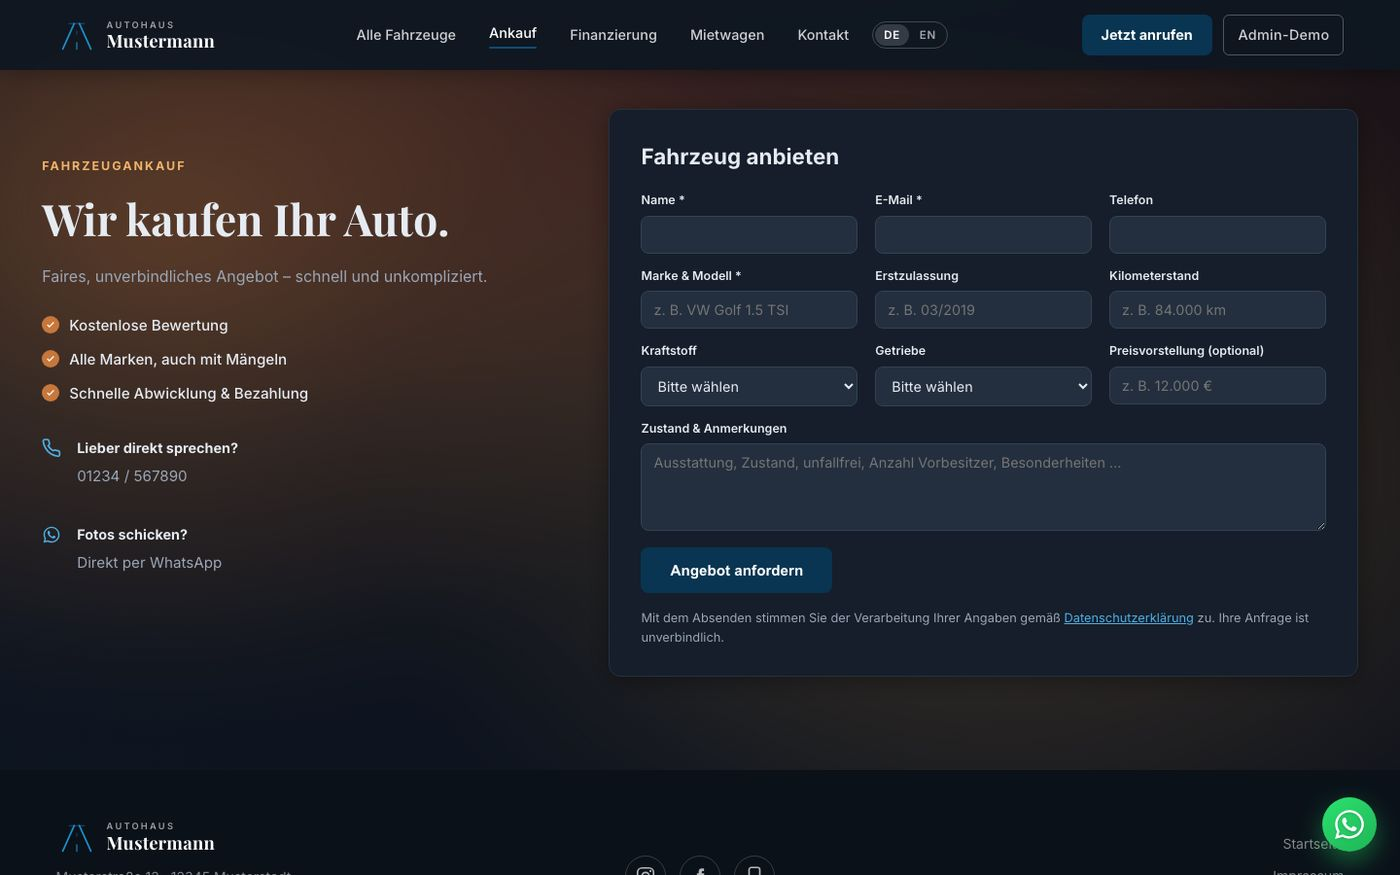
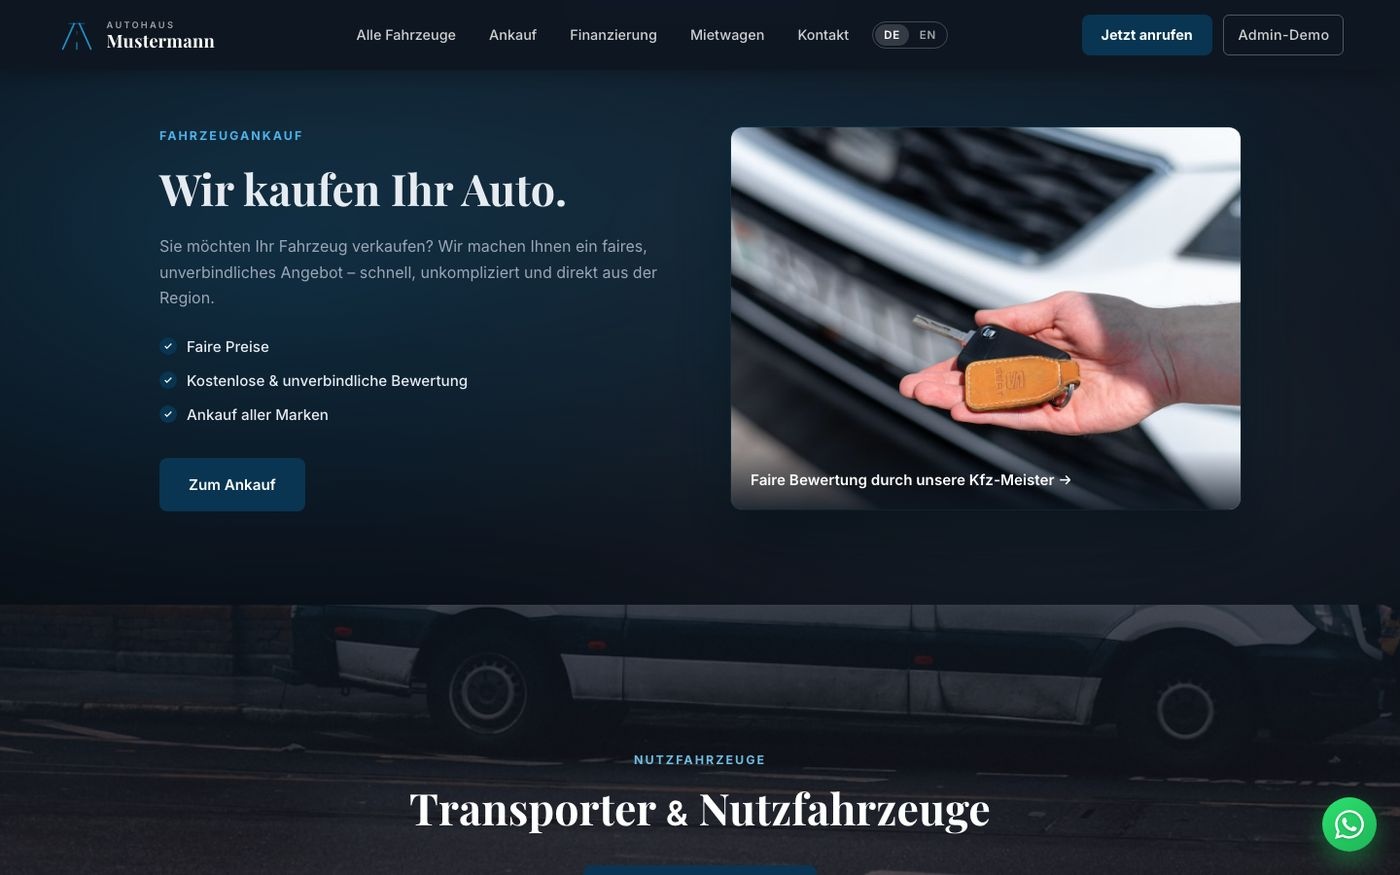
feat(website): Slider – neue Startseite/Ankauf-Bilder, Pfeile auf den Bildern, mehr GEO-Beispiele
- Startseite und Ankauf neu aus der Autohaus-Demo, Instagram-Profil entfernt
- schlichte Pfeile links/rechts auf den Screenshots
- GEO spielt fuenf KI-Antworten aus verschiedenen Branchen nacheinander ab

diff --git a/src/lib/texte.ts b/src/lib/texte.ts
@@ -33,7 +33,7 @@ const DE = {
         titel: "Gute Idee heute. Online morgen.",
         text: "KI ersetzt keine Idee – sie macht die Umsetzung schnell. Beispiel Instagram: Foto wählen, Text kommt von der KI, Beitrag einplanen. Fertig.",
         punkte: ["Instagram-Beiträge in Minuten", "Änderungen an der Website in Tagen", "Texte und Bilder in Ihrem Ton"],
-        ansichten: ["Content erstellen", "Content planen", "Instagram-Profil", "Website ändern"],
+        ansichten: ["Content erstellen", "Content planen", "Website ändern"],
       },
     ],
   },
@@ -43,10 +43,38 @@ const DE = {
     text: "Kunden fragen heute eine KI. Genannt wird, wer klare Fakten liefert – dafür richte ich Website und Google-Profil ein.",
     punkte: ["Strukturierte Daten", "Fragen & Antworten", "Google-Unternehmensprofil"],
     kopf: "KI-Antwort",
-    frage: "Welche Werkstatt in Würzburg macht samstags Reifenwechsel?",
-    antwortName: "Autohaus Mustermann",
-    antwort: " in Würzburg bietet samstags von 9 bis 13 Uhr Reifenwechsel an, Termine lassen sich online buchen. Kunden bewerten den Betrieb mit 4,8 von 5 Sternen.",
-    quellen: ["autohaus-mustermann.de", "Google Unternehmensprofil", "Bewertungen · 4,8 ★"],
+    beispiele: [
+      {
+        frage: "Welche Werkstatt in Würzburg macht samstags Reifenwechsel?",
+        name: "Autohaus Mustermann",
+        antwort: " in Würzburg bietet samstags von 9 bis 13 Uhr Reifenwechsel an, Termine lassen sich online buchen.",
+        quellen: ["autohaus-mustermann.de", "Google Unternehmensprofil", "Bewertungen · 4,8 ★"],
+      },
+      {
+        frage: "Wo kann ich in Würzburg sonntags gemütlich frühstücken?",
+        name: "Café Mustermann",
+        antwort: " in der Innenstadt serviert sonntags bis 14 Uhr Frühstück, Tische lassen sich online reservieren.",
+        quellen: ["cafe-mustermann.de", "Speisekarte", "Bewertungen · 4,7 ★"],
+      },
+      {
+        frage: "Wer plant in Würzburg einen Anbau ans Einfamilienhaus?",
+        name: "Planungsbüro Mustermann",
+        antwort: " plant An- und Umbauten von der ersten Skizze bis zum Bauantrag. Ein Erstgespräch lässt sich direkt anfragen.",
+        quellen: ["planungsbuero-mustermann.de", "Referenzprojekte", "Google Unternehmensprofil"],
+      },
+      {
+        frage: "Wo miete ich in Würzburg kurzfristig einen Transporter?",
+        name: "Autohaus Mustermann",
+        antwort: " vermietet Transporter ab 59 € am Tag. Freie Tage sind online sichtbar und direkt buchbar.",
+        quellen: ["autohaus-mustermann.de/mietwagen", "Belegungsplan", "Bewertungen · 4,8 ★"],
+      },
+      {
+        frage: "Welcher Friseur in Würzburg hat heute noch einen Termin frei?",
+        name: "Salon Mustermann",
+        antwort: " am Marktplatz hat heute ab 16 Uhr noch Termine frei – gebucht wird online in einer Minute.",
+        quellen: ["salon-mustermann.de", "Online-Terminbuchung", "Bewertungen · 4,9 ★"],
+      },
+    ],
     aria: "Beispiel: KI-Antwort, die den Betrieb empfiehlt",
   },
   ueber: {
@@ -136,7 +164,7 @@ const EN: Texte = {
         titel: "Good idea today. Online tomorrow.",
         text: "AI doesn't replace an idea – it makes execution fast. Take Instagram: pick a photo, the AI writes the text, schedule the post. Done.",
         punkte: ["Instagram posts in minutes", "Website changes in days", "Text and images in your tone"],
-        ansichten: ["Create content", "Schedule content", "Instagram profile", "Edit website"],
+        ansichten: ["Create content", "Schedule content", "Edit website"],
       },
     ],
   },
@@ -146,10 +174,38 @@ const EN: Texte = {
     text: "Customers ask an AI these days. It names whoever provides clear facts – that's what I set up your website and Google profile for.",
     punkte: ["Structured data", "Questions & answers", "Google Business Profile"],
     kopf: "AI answer",
-    frage: "Which garage in Würzburg changes tyres on Saturdays?",
-    antwortName: "Autohaus Mustermann",
-    antwort: " in Würzburg changes tyres on Saturdays from 9 am to 1 pm, and appointments can be booked online. Customers rate the business 4.8 out of 5 stars.",
-    quellen: ["autohaus-mustermann.de", "Google Business Profile", "Reviews · 4.8 ★"],
+    beispiele: [
+      {
+        frage: "Which garage in Würzburg changes tyres on Saturdays?",
+        name: "Autohaus Mustermann",
+        antwort: " in Würzburg changes tyres on Saturdays from 9 am to 1 pm, and appointments can be booked online.",
+        quellen: ["autohaus-mustermann.de", "Google Business Profile", "Reviews · 4.8 ★"],
+      },
+      {
+        frage: "Where can I have a relaxed Sunday breakfast in Würzburg?",
+        name: "Café Mustermann",
+        antwort: " in the city centre serves breakfast on Sundays until 2 pm, and tables can be reserved online.",
+        quellen: ["cafe-mustermann.de", "Menu", "Reviews · 4.7 ★"],
+      },
+      {
+        frage: "Who can plan an extension to my house in Würzburg?",
+        name: "Planungsbüro Mustermann",
+        antwort: " plans extensions and conversions from the first sketch to the building application. A first meeting can be requested directly.",
+        quellen: ["planungsbuero-mustermann.de", "Reference projects", "Google Business Profile"],
+      },
+      {
+        frage: "Where can I rent a van at short notice in Würzburg?",
+        name: "Autohaus Mustermann",
+        antwort: " rents out vans from €59 a day. Free days are shown online and can be booked directly.",
+        quellen: ["autohaus-mustermann.de/mietwagen", "Booking calendar", "Reviews · 4.8 ★"],
+      },
+      {
+        frage: "Which hairdresser in Würzburg still has a slot today?",
+        name: "Salon Mustermann",
+        antwort: " on the market square has free slots today from 4 pm – booked online in a minute.",
+        quellen: ["salon-mustermann.de", "Online booking", "Reviews · 4.9 ★"],
+      },
+    ],
     aria: "Example: an AI answer recommending the business",
   },
   ueber: {
@@ -237,7 +293,7 @@ const ES: Texte = {
         titel: "Buena idea hoy. En línea mañana.",
         text: "La IA no sustituye una idea – hace que la ejecución sea rápida. Ejemplo Instagram: elegir foto, la IA escribe el texto, programar la publicación. Listo.",
         punkte: ["Publicaciones de Instagram en minutos", "Cambios en la web en días", "Textos e imágenes con su tono"],
-        ansichten: ["Crear contenido", "Planificar contenido", "Perfil de Instagram", "Editar web"],
+        ansichten: ["Crear contenido", "Planificar contenido", "Editar web"],
       },
     ],
   },
@@ -247,10 +303,38 @@ const ES: Texte = {
     text: "Hoy los clientes preguntan a una IA. Se menciona a quien ofrece datos claros – para eso preparo su web y su perfil de Google.",
     punkte: ["Datos estructurados", "Preguntas y respuestas", "Perfil de empresa de Google"],
     kopf: "Respuesta de la IA",
-    frage: "¿Qué taller de Würzburg cambia neumáticos los sábados?",
-    antwortName: "Autohaus Mustermann",
-    antwort: " en Würzburg cambia neumáticos los sábados de 9 a 13 h y las citas se pueden reservar en línea. Los clientes valoran el negocio con 4,8 de 5 estrellas.",
-    quellen: ["autohaus-mustermann.de", "Perfil de empresa de Google", "Reseñas · 4,8 ★"],
+    beispiele: [
+      {
+        frage: "¿Qué taller de Würzburg cambia neumáticos los sábados?",
+        name: "Autohaus Mustermann",
+        antwort: " en Würzburg cambia neumáticos los sábados de 9 a 13 h y las citas se reservan en línea.",
+        quellen: ["autohaus-mustermann.de", "Perfil de empresa de Google", "Reseñas · 4,8 ★"],
+      },
+      {
+        frage: "¿Dónde puedo desayunar tranquilo un domingo en Würzburg?",
+        name: "Café Mustermann",
+        antwort: " en el centro sirve desayunos los domingos hasta las 14 h y las mesas se reservan en línea.",
+        quellen: ["cafe-mustermann.de", "Carta", "Reseñas · 4,7 ★"],
+      },
+      {
+        frage: "¿Quién planifica una ampliación de mi casa en Würzburg?",
+        name: "Planungsbüro Mustermann",
+        antwort: " planifica ampliaciones y reformas desde el primer boceto hasta la solicitud de licencia. La primera consulta se pide directamente.",
+        quellen: ["planungsbuero-mustermann.de", "Proyectos de referencia", "Perfil de empresa de Google"],
+      },
+      {
+        frage: "¿Dónde alquilo una furgoneta con poca antelación en Würzburg?",
+        name: "Autohaus Mustermann",
+        antwort: " alquila furgonetas desde 59 € al día. Los días libres se ven en línea y se reservan directamente.",
+        quellen: ["autohaus-mustermann.de/mietwagen", "Calendario de reservas", "Reseñas · 4,8 ★"],
+      },
+      {
+        frage: "¿Qué peluquería de Würzburg tiene hoy una cita libre?",
+        name: "Salon Mustermann",
+        antwort: " en la plaza del mercado tiene citas libres hoy desde las 16 h – se reserva en línea en un minuto.",
+        quellen: ["salon-mustermann.de", "Reserva en línea", "Reseñas · 4,9 ★"],
+      },
+    ],
     aria: "Ejemplo: una respuesta de IA que recomienda el negocio",
   },
   ueber: {

diff --git a/src/components/Geo.tsx b/src/components/Geo.tsx
@@ -12,9 +12,12 @@ function bewegungReduziert() {
   return typeof window !== "undefined" && window.matchMedia("(prefers-reduced-motion: reduce)").matches;
 }
 
-// Schreibt einen Text Zeichen fuer Zeichen; nach dem Ende bleibt er stehen,
-// wird geleert und faengt von vorn an. Bei "weniger Bewegung" steht er sofort.
-function useTippen(voll: string, aktiv: boolean, tempo = 22, pause = 7000) {
+// Schreibt einen Text Zeichen fuer Zeichen und bleibt am Ende stehen.
+// Bei "weniger Bewegung" steht er sofort.
+const TEMPO_FRAGE = 30, TEMPO_ANTWORT = 14, START = 400, HALTEN = 3500;
+const extra = (z: string) => (z === "." ? 260 : z === "," ? 120 : 0);
+
+function useTippen(voll: string, aktiv: boolean, tempo: number) {
   const [n, setN] = useState(0);
   useEffect(() => {
     if (!aktiv) { setN(0); return; }
@@ -22,43 +25,64 @@ function useTippen(voll: string, aktiv: boolean, tempo = 22, pause = 7000) {
     let i = 0; let t: ReturnType<typeof setTimeout>;
     const schritt = () => {
       i++; setN(i);
-      if (i < voll.length) t = setTimeout(schritt, tempo + (voll[i - 1] === "." ? 260 : voll[i - 1] === "," ? 120 : 0));
-      else t = setTimeout(() => { i = 0; setN(0); t = setTimeout(schritt, 600); }, pause);
+      if (i < voll.length) t = setTimeout(schritt, tempo + extra(voll[i - 1]));
     };
-    t = setTimeout(schritt, 400);
+    t = setTimeout(schritt, START);
     return () => clearTimeout(t);
-  }, [voll, aktiv, tempo, pause]);
-  return { text: voll.slice(0, n), fertig: n >= voll.length, laeuft: n > 0 && n < voll.length };
+  }, [voll, aktiv, tempo]);
+  return { text: voll.slice(0, n), fertig: n >= voll.length };
 }
 
-export function GeoAnsicht() {
+type Beispiel = { frage: string; name: string; antwort: string; quellen: string[] };
+
+const tippDauer = (text: string, tempo: number) =>
+  START + [...text].reduce((summe, z) => summe + tempo + extra(z), 0);
+
+// Wie lange ein Beispiel steht: Frage tippen, Antwort tippen, kurz stehen lassen.
+export function geoDauer(b: Beispiel) {
+  return tippDauer(b.frage, TEMPO_FRAGE) + tippDauer(b.name + b.antwort, TEMPO_ANTWORT) + HALTEN;
+}
+
+// Die KI-Antwort: mehrere Beispiele aus verschiedenen Branchen. Welches gerade
+// laeuft, steuert der Slider (Hero.tsx) ueber "beispiel".
+export function GeoAnsicht({ beispiel = 0, aktiv = true }: { beispiel?: number; aktiv?: boolean }) {
   const { t, sprache } = useSprache();
   const g = t.geo;
-  // Die Frage erst, die Antwort danach – bei Sprachwechsel von vorn.
-  const frage = useTippen(g.frage, true, 34, 999999);
-  const antwort = useTippen(g.antwortName + g.antwort, frage.fertig, 18, 7000);
-  const quellenSichtbar = antwort.fertig;
-
+  const b = g.beispiele[beispiel % g.beispiele.length];
   return (
-    <div className="mock-karte" aria-label={g.aria} key={sprache}>
+    <div className="mock-karte" aria-label={g.aria}>
       <div className="mock-kopf">
         <Sparkles size={14} /> {g.kopf}
+        <span className="mock-zaehler" aria-hidden="true">
+          {g.beispiele.map((_, n) => <i key={n} className={n === beispiel ? "aktiv" : ""} />)}
+        </span>
       </div>
+      <GeoBeispiel key={`${sprache}-${beispiel}-${aktiv}`} b={b} aktiv={aktiv} />
+    </div>
+  );
+}
+
+function GeoBeispiel({ b, aktiv }: { b: Beispiel; aktiv: boolean }) {
+  // Die Frage erst, die Antwort danach.
+  const frage = useTippen(b.frage, aktiv, TEMPO_FRAGE);
+  const antwort = useTippen(b.name + b.antwort, aktiv && frage.fertig, TEMPO_ANTWORT);
+  return (
+    <>
       <p className="mock-suche">
         {frage.text}{!frage.fertig && <span className="mock-cursor" aria-hidden="true" />}
       </p>
       <div className="mock-geo" style={{ minHeight: "5.5rem" }}>
         <p aria-live="off">
-          {antwort.text.length <= g.antwortName.length
+          {antwort.text.length <= b.name.length
             ? <b>{antwort.text}</b>
-            : <><b>{g.antwortName}</b>{antwort.text.slice(g.antwortName.length)}</>}
+            : <><b>{b.name}</b>{antwort.text.slice(b.name.length)}</>}
           {frage.fertig && !antwort.fertig && <span className="mock-cursor" aria-hidden="true" />}
         </p>
-        <div className={`mock-quellen ${quellenSichtbar ? "sichtbar" : ""}`}>
-          {g.quellen.map(q => <span key={q}>{q}</span>)}
+        <div className={`mock-quellen ${antwort.fertig ? "sichtbar" : ""}`}>
+          {b.quellen.map(q => <span key={q}>{q}</span>)}
         </div>
       </div>
-    </div>
+    </>
   );
 }
 

diff --git a/src/components/Hero.tsx b/src/components/Hero.tsx
@@ -1,21 +1,19 @@
 "use client";
 import { useEffect, useState } from "react";
 import { ChevronLeft, ChevronRight, Sparkles } from "lucide-react";
-import { GeoAnsicht } from "./Geo";
+import { GeoAnsicht, geoDauer } from "./Geo";
 import { LeistungZeile, ANZAHL_ANSICHTEN } from "./Leistungen";
 import { useSprache } from "@/lib/sprache";
 
 // Der Einstieg als Slider ueber vier Kapitel: GEO und die drei Leistungen,
 // jeweils mit Bild. Alle Folien liegen uebereinander in derselben
 // Rasterzelle – so bestimmt die hoechste die Hoehe und nichts springt beim
-// Wechsel. GEO steht 12 Sekunden; bei den Leistungen wechselt alle 6 Sekunden
-// die Ansicht, nach der letzten folgt das naechste Kapitel. Haelt beim
+// Wechsel. Bei GEO laufen mehrere KI-Antworten nacheinander (jede so lange,
+// wie sie zum Tippen braucht); bei den Leistungen wechselt alle 6 Sekunden
+// die Ansicht. Nach dem letzten Schritt folgt das naechste Kapitel. Haelt beim
 // Drueberfahren an. Pfeile oben mittig, die Kapitelreiter unten mittig.
 
-const GEO_DAUER = 12000;
 const ANSICHT_DAUER = 6000;
-// Anzahl Schritte je Kapitel: GEO einer, Leistungen je Ansicht einer.
-const SCHRITTE = [1, ...ANZAHL_ANSICHTEN];
 
 export default function Hero() {
   const { t } = useSprache();
@@ -28,19 +26,22 @@ export default function Hero() {
     ...t.leistungen.eintraege.map(l => l.eyebrow),
   ];
   const anzahl = titel.length;
+  // Anzahl Schritte je Kapitel: GEO je Beispiel einer, Leistungen je Ansicht einer.
+  const SCHRITTE = [t.geo.beispiele.length, ...ANZAHL_ANSICHTEN];
+  const schritte = SCHRITTE[aktiv];
+  const dauer = aktiv === 0 ? geoDauer(t.geo.beispiele[bild % t.geo.beispiele.length]) : ANSICHT_DAUER;
 
   useEffect(() => {
     if (pause) return;
     if (typeof window !== "undefined" && window.matchMedia("(prefers-reduced-motion: reduce)").matches) return;
     const z = setTimeout(() => {
-      if (bild + 1 < SCHRITTE[aktiv]) setBild(bild + 1);
+      if (bild + 1 < schritte) setBild(bild + 1);
       else { setAktiv((aktiv + 1) % anzahl); setBild(0); }
-    }, aktiv === 0 ? GEO_DAUER : ANSICHT_DAUER);
+    }, dauer);
     return () => clearTimeout(z);
-  }, [aktiv, bild, pause, anzahl]);
+  }, [aktiv, bild, pause, anzahl, dauer, schritte]);
 
   const geheZu = (k: number) => { setAktiv((k + anzahl) % anzahl); setBild(0); };
-  const dauer = aktiv === 0 ? GEO_DAUER : ANSICHT_DAUER;
   // Fortschrittsbalken fuellt pro Schritt den passenden Teil des Kapitels.
   const von = bild / SCHRITTE[aktiv], bis = (bild + 1) / SCHRITTE[aktiv];
 
@@ -54,7 +55,7 @@ export default function Hero() {
         <h1 className="display-h slider-titel text-[var(--fg)] mb-4">{t.geo.titel}</h1>
         <p className="text-[var(--fg-muted)] leading-relaxed">{t.hero.unter}</p>
       </div>
-      <div className="lg:col-span-7"><GeoAnsicht /></div>
+      <div className="lg:col-span-7"><GeoAnsicht beispiel={aktiv === 0 ? bild : 0} aktiv={aktiv === 0} /></div>
     </div>,
     ...t.leistungen.eintraege.map((l, i) => <LeistungZeile key={l.eyebrow} i={i} bild={aktiv === i + 1 ? bild : 0} onBild={setBild} />),
   ];

diff --git a/src/app/globals.css b/src/app/globals.css
@@ -142,6 +142,9 @@ html, body {
   box-shadow: 0 24px 60px rgba(0,0,0,0.5); padding: 18px 20px 16px; max-width: 560px; margin: 0 auto;
 }
 .mock-kopf { display:flex; align-items:center; gap:8px; font-size:.78rem; color:var(--fg-subtle); margin-bottom:14px; }
+.mock-zaehler { margin-left:auto; display:inline-flex; gap:5px; }
+.mock-zaehler i { width:6px; height:6px; border-radius:50%; background:rgba(255,255,255,.18); transition:background .3s ease, width .3s ease; }
+.mock-zaehler i.aktiv { width:16px; border-radius:3px; background:var(--accent); }
 .mock-punkt { width:8px; height:8px; border-radius:50%; background:#22c55e; box-shadow:0 0 0 3px rgba(34,197,94,.2); }
 .mock-suche {
   margin:0 0 14px; padding:11px 14px; border-radius:999px; background:var(--surface-2);
@@ -207,7 +210,21 @@ html, body {
 .slider-reiter-balken i { display:block; height:100%; width:100%; background:var(--accent); transform-origin:left; animation: slider-fuellen linear forwards; }
 @keyframes slider-fuellen { from { transform:scaleX(var(--von, 0)); } to { transform:scaleX(var(--bis, 1)); } }
 /* Ansichten je Leistung: Bilder uebereinander, darunter die Umschalter */
-.ansicht-buehne { display:grid; padding-bottom:24px; }
+.ansicht-buehne { display:grid; padding-bottom:24px; position:relative; }
+.ansicht-pfeil {
+  position:absolute; top:calc(50% - 12px); transform:translateY(-50%); z-index:3;
+  width:34px; height:34px; border-radius:50%; display:inline-flex; align-items:center; justify-content:center;
+  background:rgba(10,15,20,.55); border:1px solid rgba(255,255,255,.14); color:rgba(255,255,255,.8);
+  backdrop-filter:blur(6px); cursor:pointer; opacity:.7; transition:opacity .2s ease, border-color .2s ease, color .2s ease;
+}
+.ansicht-pfeil.links { left:10px; }
+.ansicht-pfeil.rechts { right:10px; }
+/* Mit Handy daneben: rechter Pfeil links neben dem Handy (w-[24%], -right-3 bzw. md:-right-8) */
+.ansicht-buehne.mit-handy .ansicht-pfeil.rechts { right:calc(24% - 12px + 10px); }
+@media (min-width:768px) { .ansicht-buehne.mit-handy .ansicht-pfeil.rechts { right:calc(24% - 32px + 10px); } }
+.ansicht-pfeil.rechts { transition:opacity .2s ease, border-color .2s ease, color .2s ease, right .35s ease; }
+.ansicht-buehne:hover .ansicht-pfeil { opacity:1; }
+.ansicht-pfeil:hover { border-color:var(--accent); color:#fff; }
 .ansicht { grid-area:1/1; position:relative; opacity:0; visibility:hidden; transition: opacity .5s ease, visibility 0s linear .5s; }
 .ansicht.aktiv { opacity:1; visibility:visible; transition: opacity .5s ease, visibility 0s; }
 .ansicht-wahl { display:flex; flex-wrap:wrap; justify-content:center; gap:6px; margin-top:14px; }

diff --git a/src/components/Leistungen.tsx b/src/components/Leistungen.tsx
@@ -1,5 +1,5 @@
 "use client";
-import { Globe, LayoutDashboard, Zap, Check } from "lucide-react";
+import { Globe, LayoutDashboard, Zap, Check, ChevronLeft, ChevronRight } from "lucide-react";
 import { useSprache } from "@/lib/sprache";
 
 // Die drei Leistungen fuer den Einstiegs-Slider (Hero.tsx). Jede Leistung hat
@@ -48,7 +48,6 @@ const ANSICHTEN: Ansicht[][] = [
   [
     { bild: "ki-content" },
     { bild: "ki-planen" },
-    { bild: "ki-profil" },
     { bild: "ki-website" },
   ],
 ];
@@ -79,7 +78,7 @@ export function LeistungZeile({ i, bild, onBild }: { i: number; bild: number; on
         </ul>
       </div>
       <div className="lg:col-span-7">
-        <div className="ansicht-buehne">
+        <div className={`ansicht-buehne ${ANSICHTEN[i][bild]?.handy ? "mit-handy" : ""}`}>
           {ANSICHTEN[i].map((a, n) => (
             <div key={a.bild} className={`ansicht ${bild === n ? "aktiv" : ""}`} aria-hidden={bild !== n}>
               <Browser src={`/leistungen/${a.bild}.jpg`} alt={l.ansichten[n]} />
@@ -89,6 +88,11 @@ export function LeistungZeile({ i, bild, onBild }: { i: number; bild: number; on
               )}
             </div>
           ))}
+          {/* Schlichte Pfeile links und rechts auf dem Bild */}
+          <button type="button" className="ansicht-pfeil links" aria-label="Vorherige Ansicht"
+                  onClick={() => onBild((bild - 1 + ANSICHTEN[i].length) % ANSICHTEN[i].length)}><ChevronLeft size={20} /></button>
+          <button type="button" className="ansicht-pfeil rechts" aria-label="Nächste Ansicht"
+                  onClick={() => onBild((bild + 1) % ANSICHTEN[i].length)}><ChevronRight size={20} /></button>
         </div>
         <div className="ansicht-wahl" role="tablist">
           {l.ansichten.map((name, n) => (
